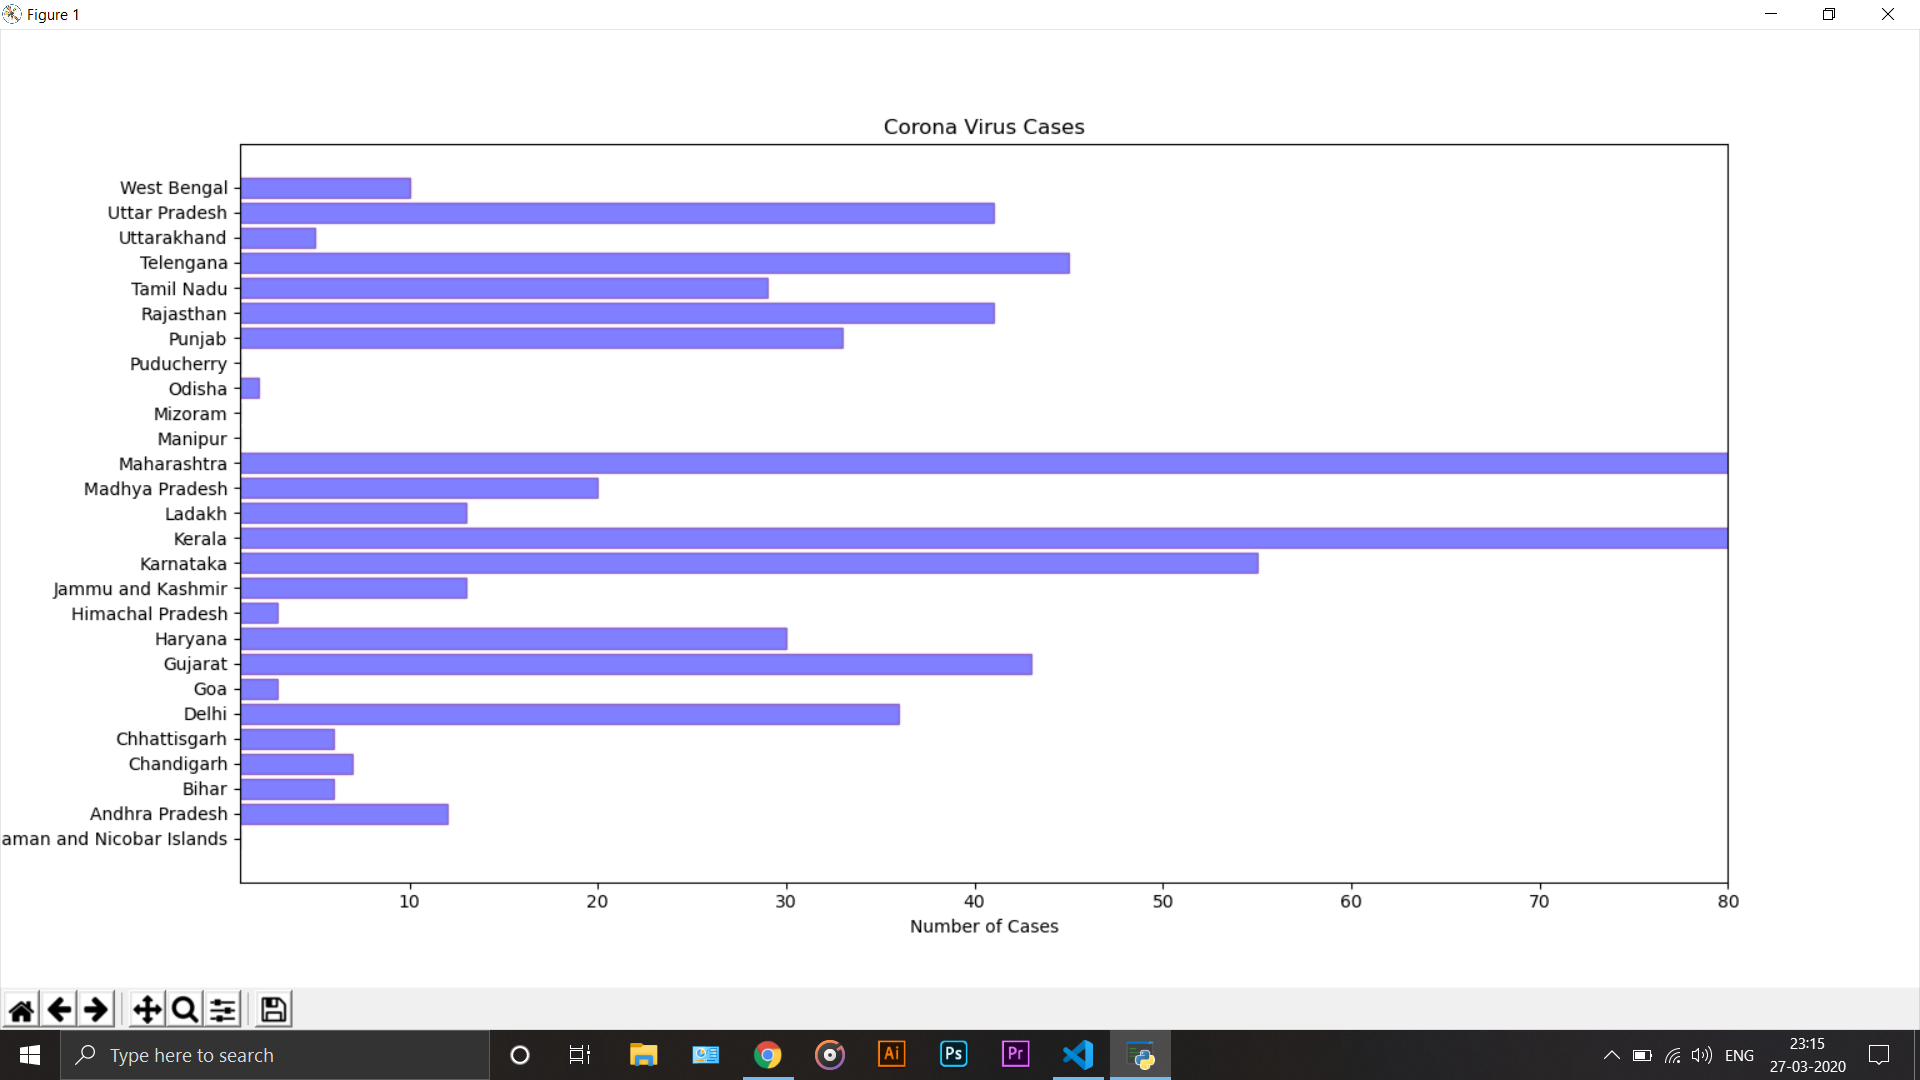
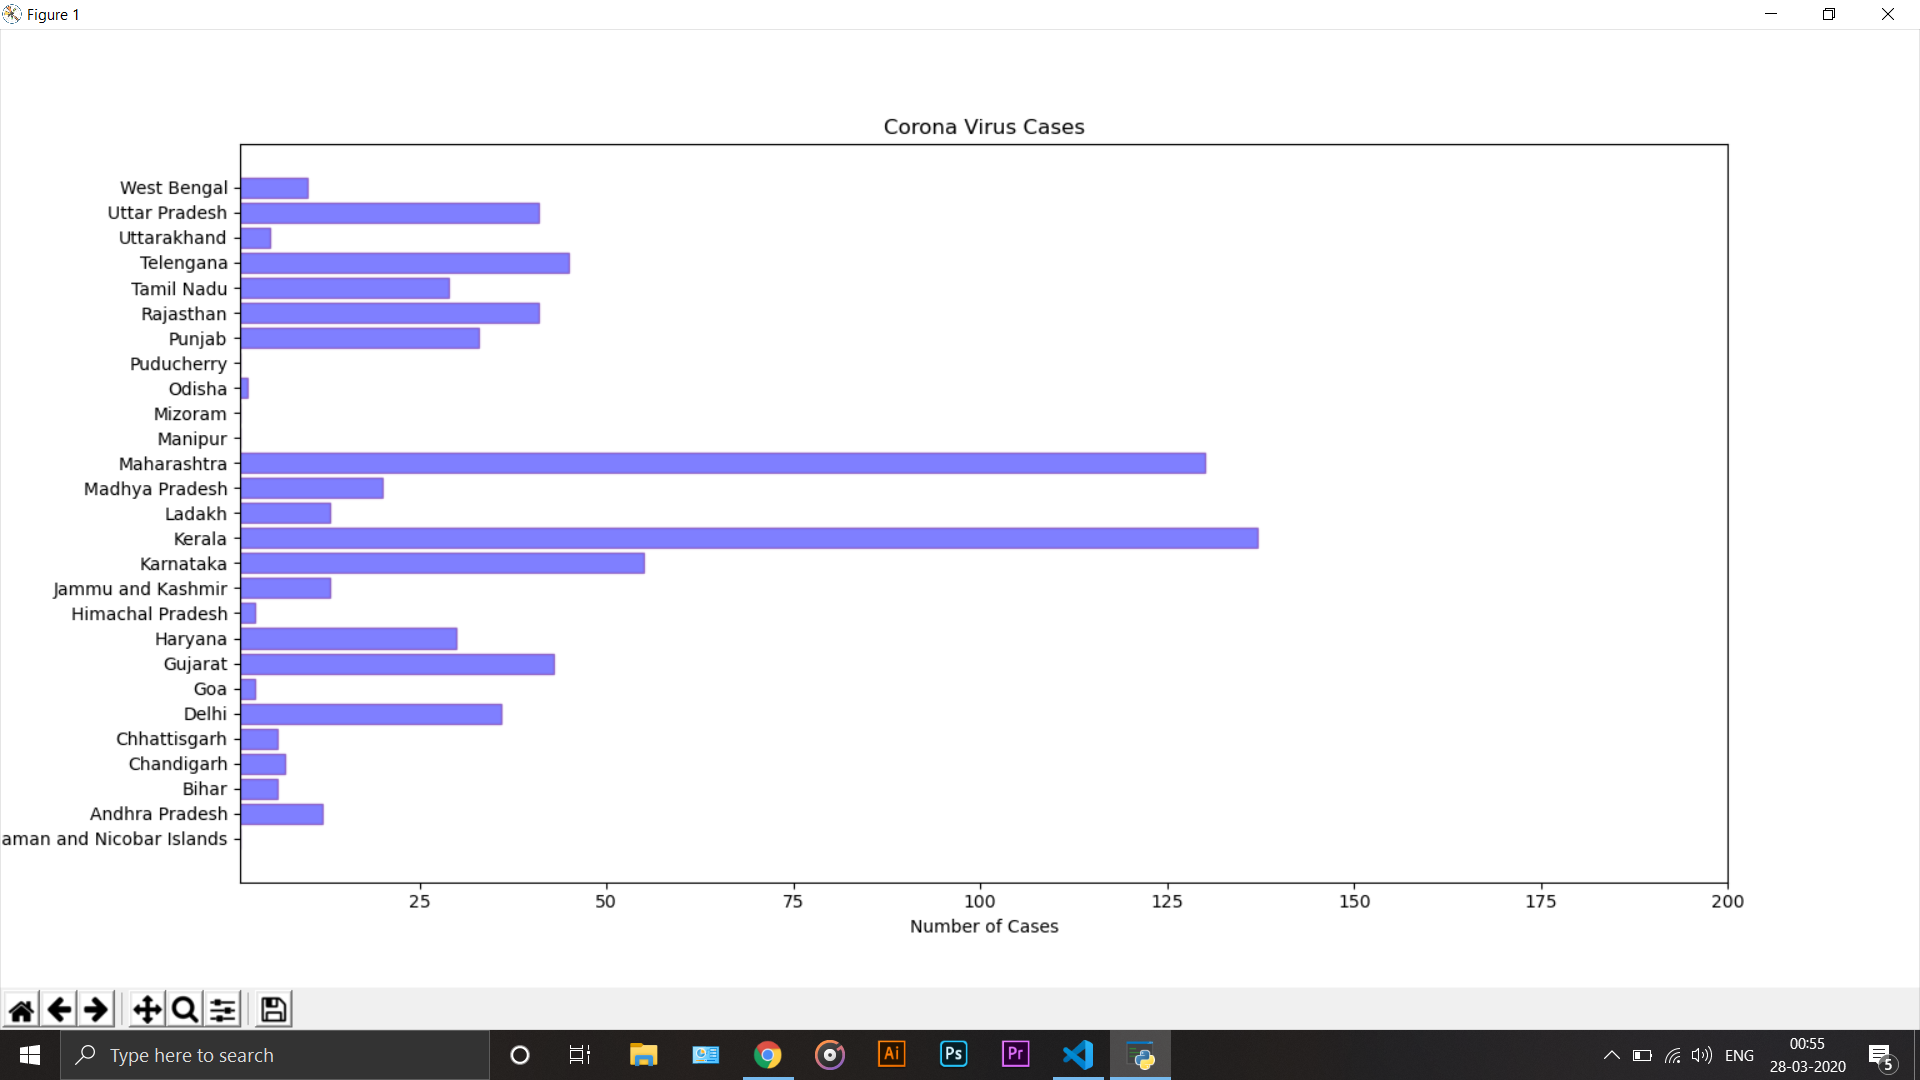
minor changes

diff --git a/main.py b/main.py
@@ -4,6 +4,15 @@ from tabulate import tabulate
 import os 
 import numpy as np 
 import matplotlib.pyplot as plt 
+import tkinter as tk
+from tkinter import ttk
+
+
+def show():
+	# stats.sort(key=lambda e: e[1], reverse=True)
+
+	for (sno,state,indian,foreign,cured,death) in stats:
+		listBox.insert("", "end", values=(sno,state,indian,foreign,cured,death))
 
 extract_contents = lambda row: [x.text.replace('\n', '') for x in row] 
 URL = 'https://www.mohfw.gov.in/'
@@ -33,6 +42,8 @@ stats[-1][1] = "Total Cases"
 stats.remove(stats[-1]) 
 
 
+
+
 objects = [] 
 for row in stats : 
 	objects.append(row[1]) 
@@ -43,18 +54,36 @@ performance = []
 for row in stats : 
 	performance.append(int(row[2]) + int(row[3])) 
 
-table = tabulate(stats, headers=SHORT_HEADERS) 
+cases = tk.Tk() 
+cases.title("COVID-19 Updates")
+label = tk.Label(cases, text="Corona Virus Cases in India", font=("Arial",30)).grid(row=0, columnspan=6)
 
-cases_output=open("output.csv","w")
-cases_output.write(table)
-cases_output.close()
+listBox = ttk.Treeview(cases, columns=SHORT_HEADERS, show='headings')
+
+for col in SHORT_HEADERS:
+    listBox.heading(col, text=col)    
+listBox.grid(row=1, column=0, columnspan=2)
+
+# table = tabulate(stats, headers=SHORT_HEADERS,tablefmt="grid") 
+
+
+show()
+
+closeButton = tk.Button(cases, text="Close", width=15, command=exit).grid(row=4, column=0)
+
+cases.mainloop()
+
+
+# cases_output=open("output.csv","w")
+# cases_output.write(cases)
+# cases_output.close()
 
 plt.barh(y_pos, performance, align='center', alpha=0.5, 
 				color=(0/256.0, 0/256.0, 256/256.0), 
 				edgecolor=(106/256.0, 27/256.0, 154/256.0)) 
 
 plt.yticks(y_pos, objects) 
-plt.xlim(1,80) 
+plt.xlim(1,200) 
 plt.xlabel('Number of Cases') 
 plt.title('Corona Virus Cases') 
 plt.show() 

diff --git a/sample.py b/sample.py
@@ -1,0 +1,25 @@
+import tkinter as tk
+from tkinter import ttk
+
+def show():
+
+    tempList = [['Jim', '0.33'], ['Dave', '0.67'], ['James', '0.67'], ['Eden', '0.5']]
+    tempList.sort(key=lambda e: e[1], reverse=True)
+
+    for i, (name, score) in enumerate(tempList, start=1):
+        listBox.insert("", "end", values=(i, name, score))
+
+scores = tk.Tk() 
+label = tk.Label(scores, text="High Scores", font=("Arial",30)).grid(row=0, columnspan=3)
+# create Treeview with 3 columns
+cols = ('Position', 'Name', 'Score')
+listBox = ttk.Treeview(scores, columns=cols, show='headings')
+# set column headings
+for col in cols:
+    listBox.heading(col, text=col)    
+listBox.grid(row=1, column=0, columnspan=2)
+
+showScores = tk.Button(scores, text="Show scores", width=15, command=show).grid(row=4, column=0)
+closeButton = tk.Button(scores, text="Close", width=15, command=exit).grid(row=4, column=1)
+
+scores.mainloop()
